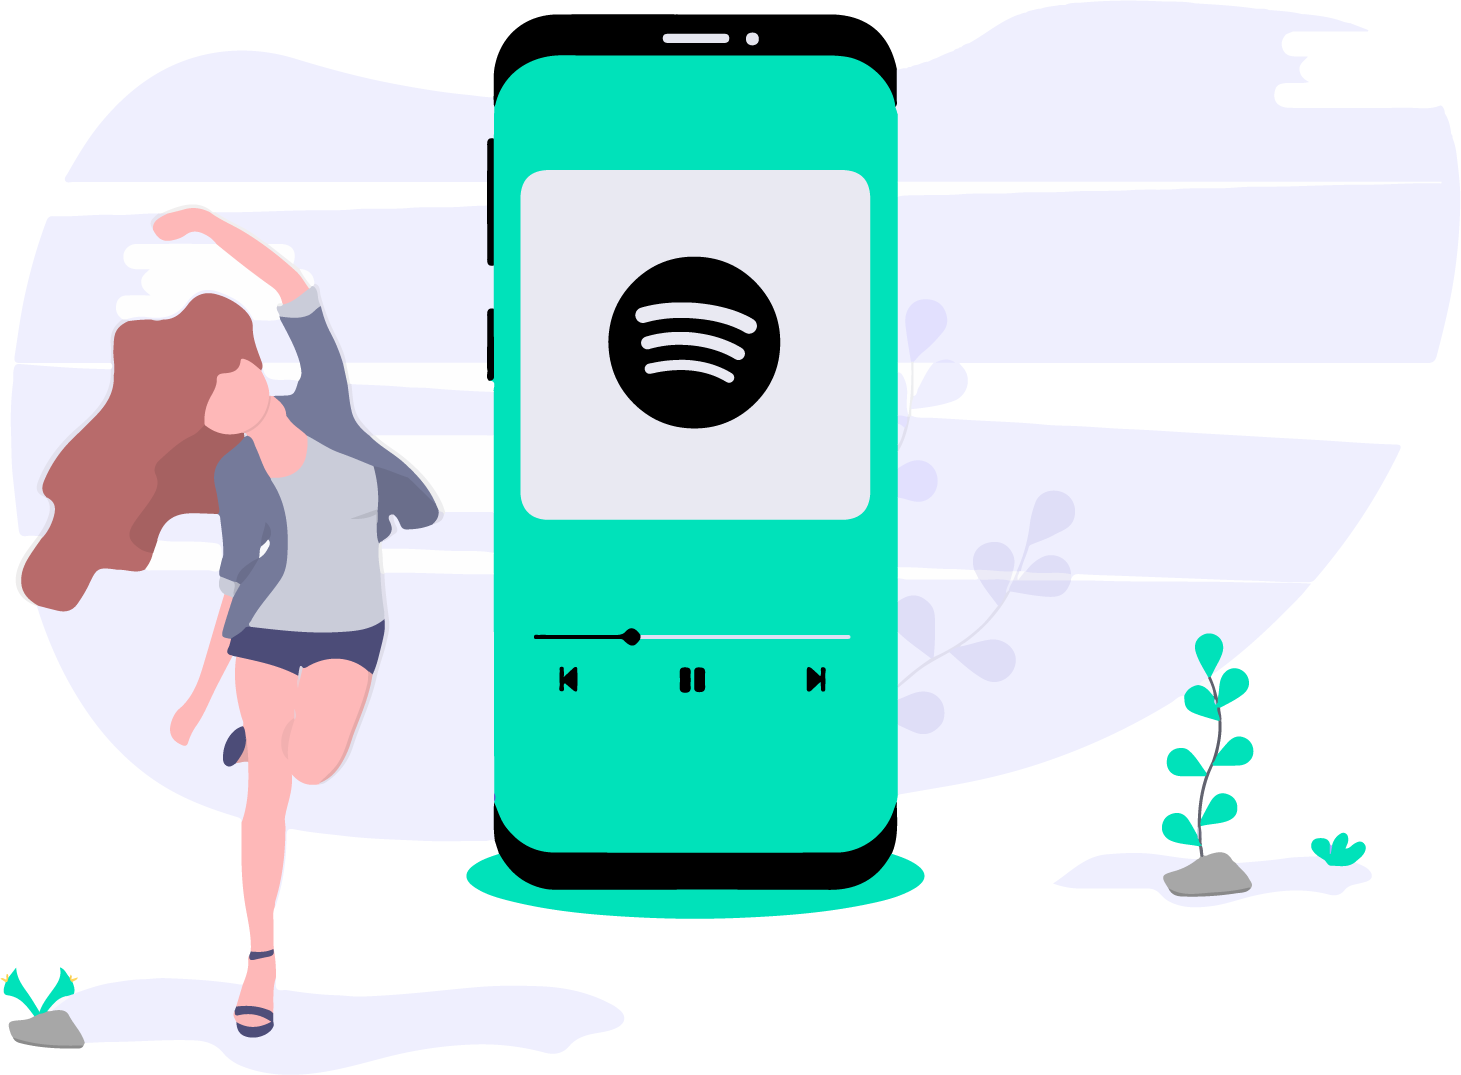
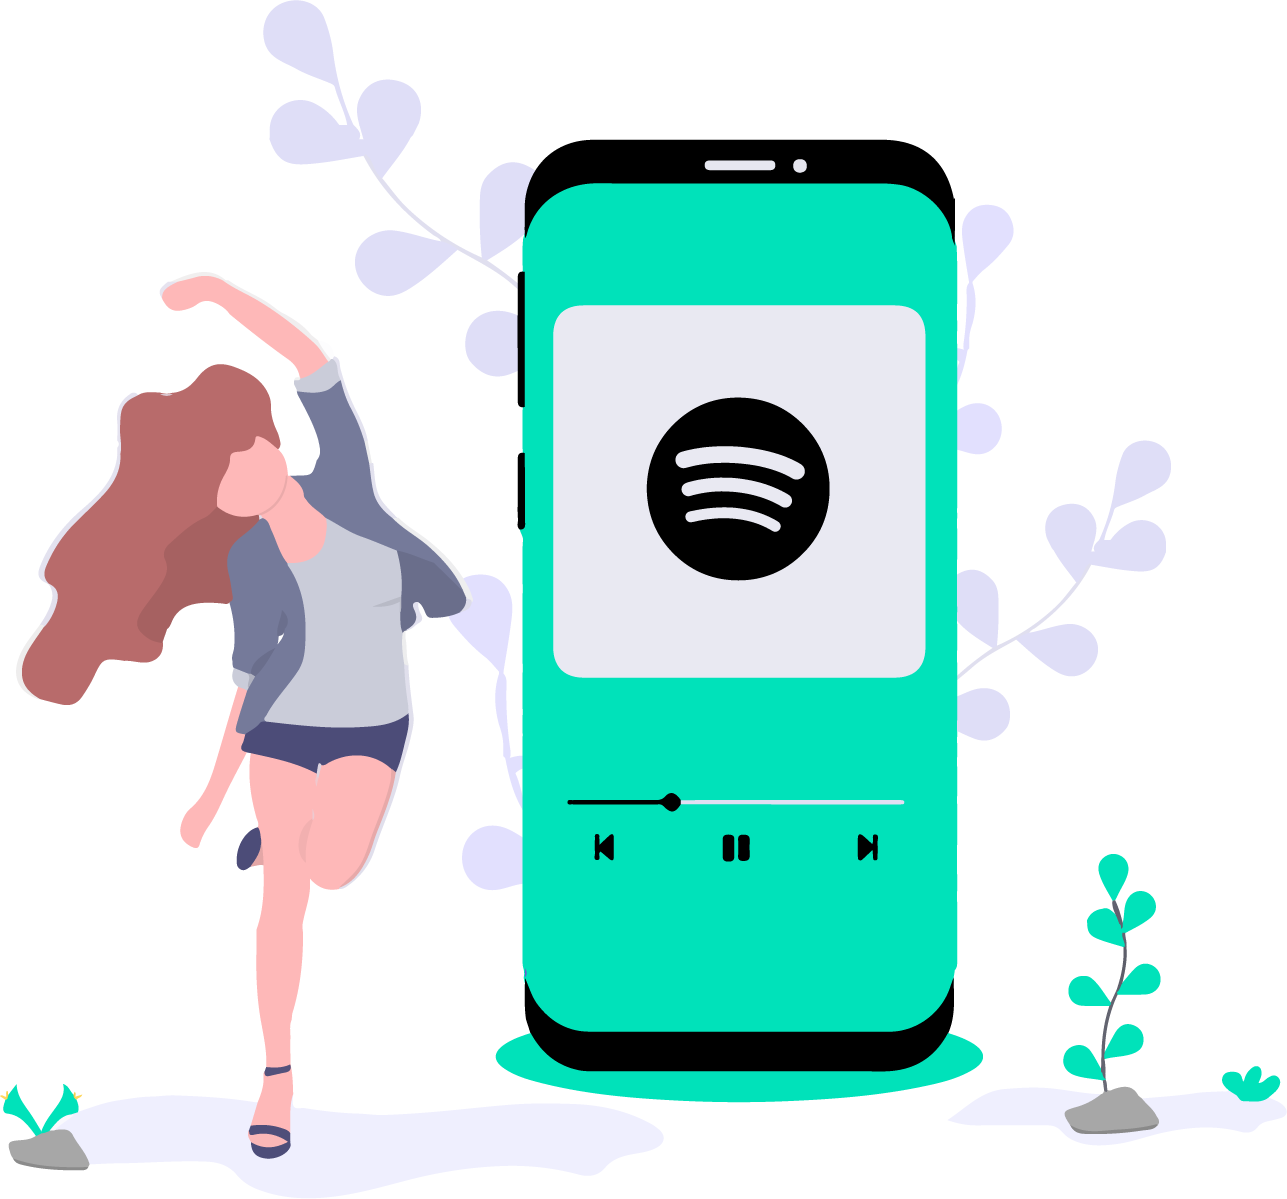
início home user free. Acrescentada img de fundo e retoques na responsividade

diff --git a/src/components/Header/styled.js b/src/components/Header/styled.js
@@ -3,16 +3,19 @@ import { EyeIcon } from '../Smallers/styled'
 
 export const HeaderComp = styled.div `
   width: 100vw;
-  height: 80px;
+  height: fit-content ;
+  min-height: 80px;
   background-color:#00E2BA;
   display: flex;
   padding-left: 64px;
   align-items: center;
   box-sizing: border-box;
-
-  @media(max-width: 600px) {
+  flex-wrap: wrap;
+  padding: 10px 0px 10px 64px;
+  @media(max-width: 640px) {
     height: fit-content;
-    padding: 10px 0px;
+    min-height: fit-content;
+    padding: 10px 0px 10px;
     flex-wrap: wrap;
     min-width: 320px;
   }
@@ -21,15 +24,18 @@ export const ImgLogo = styled.img `
   height: 56px;
   margin-right: 16px;
   margin: aut0 0;
-  @media(max-width: 600px){
-    margin-left: 10vw;
+  @media(max-width: 640px){
+    margin-left: 10vw; 
+  }
+  @media(max-width: 460px){
+    margin-left: 10vw; 
     height: 40px;
   }
 `
 export const Title = styled.h1 `
   font-size:52px;
   margin: 0;
-  @media(max-width: 600px){
+  @media(max-width: 460px){
     font-size:40px;
   }
 `

diff --git a/src/containers/HomeFreeUser/styled.js b/src/containers/HomeFreeUser/styled.js
@@ -1,18 +1,6 @@
 import styled from 'styled-components';
+import Background from '../../imgs/undraw_music_home.png'
 
-export const ContainerLogin = styled.div `
-  display: flex;
-  justify-content: center;
-  flex-direction: column;
-  /* width: fit-content;
-  height: fit-content; */
-  align-items: center;
-  padding: 0px 0px 0px 0px;
-  box-sizing: border-box;
-  background-color: white;
-  border-radius: 8px;
-  margin-top: 10%;
-`
 export const Form = styled.form `
   display: flex;
   flex-direction: column;
@@ -24,5 +12,17 @@ export const SignUpText = styled.p `
   font-family: 'proxima_nova_rgbold', Helvetica, Arial, sans-serif;
   font-size: 0.9rem;
   margin-top: 8px;
-  
+`
+export const HomeBody = styled.div `
+  background-image: url(${Background});
+  background-repeat: no-repeat;
+  background-size: contain;
+  opacity: 0.75;
+  width: 100vw;
+  height: 100vh; 
+  @media(max-width: 320px){
+  }
+`
+export const BgImg = styled.img `
+
 `

diff --git a/src/containers/HomeFreeUser/index.js b/src/containers/HomeFreeUser/index.js
@@ -1,7 +1,8 @@
 import React, { Component, Fragment } from "react";
-import {ContainerLogin, Form, SignUpText} from './styled';
+import {HomeBody, BgImg, SignUpText} from './styled';
 import Header from '../../components/Header/index';
 import {BodyComp, BodyPage} from '../../components/Body/styled';
+import BgImagem from '../../imgs/undraw_music_home.png';
 import {InputsComp, ButtonsComp, Links} from '../../components/Smallers/styled';
 import { push } from "connected-react-router";
 import { routes } from '../Router';
@@ -22,7 +23,9 @@ class HomeFreeUser extends Component {
     return (
       <BodyComp>
         <Header showTitle showSearch/>
+        <HomeBody>
 
+        </HomeBody>
       </BodyComp>
     );
   }

diff --git a/src/components/Body/styled.js b/src/components/Body/styled.js
@@ -4,6 +4,7 @@ export const BodyComp = styled.div `
 display: flex;
 flex-direction: column;
 align-items: center;
+height: 100vh;
 `
 export const BodyPage = styled.div `
 display: flex;
